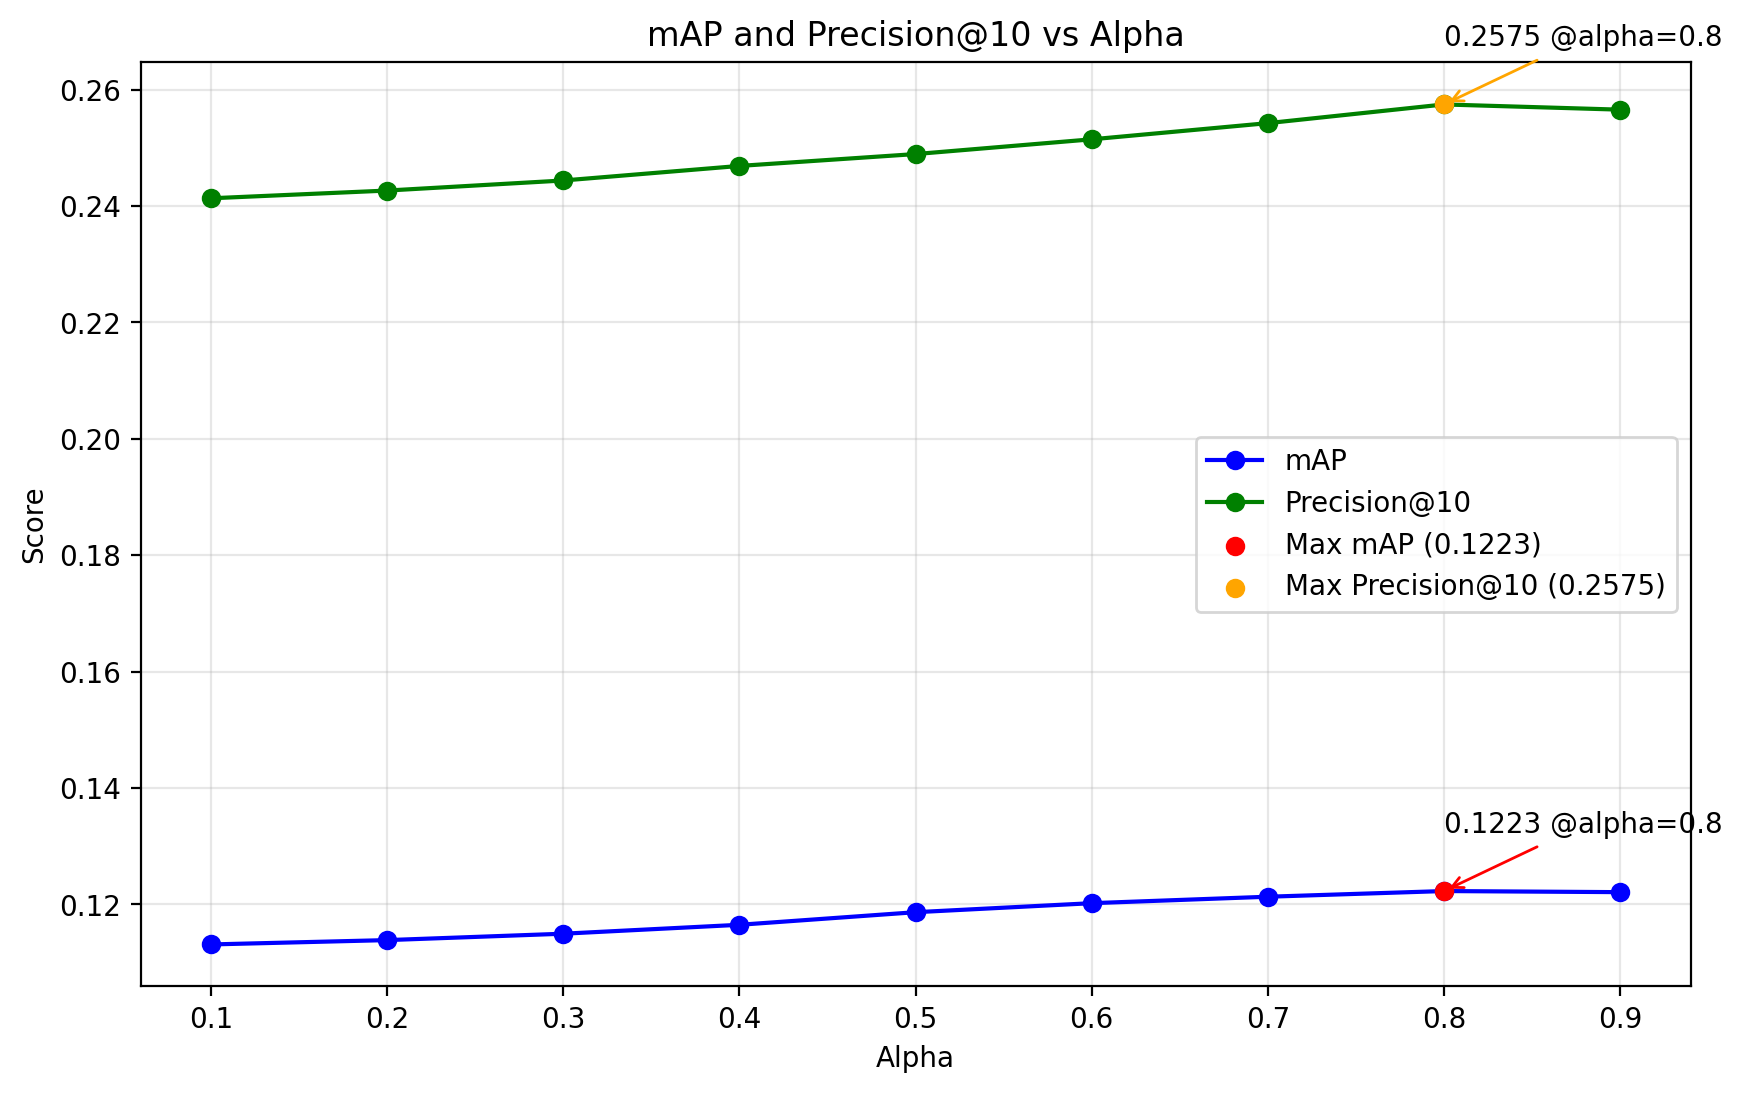
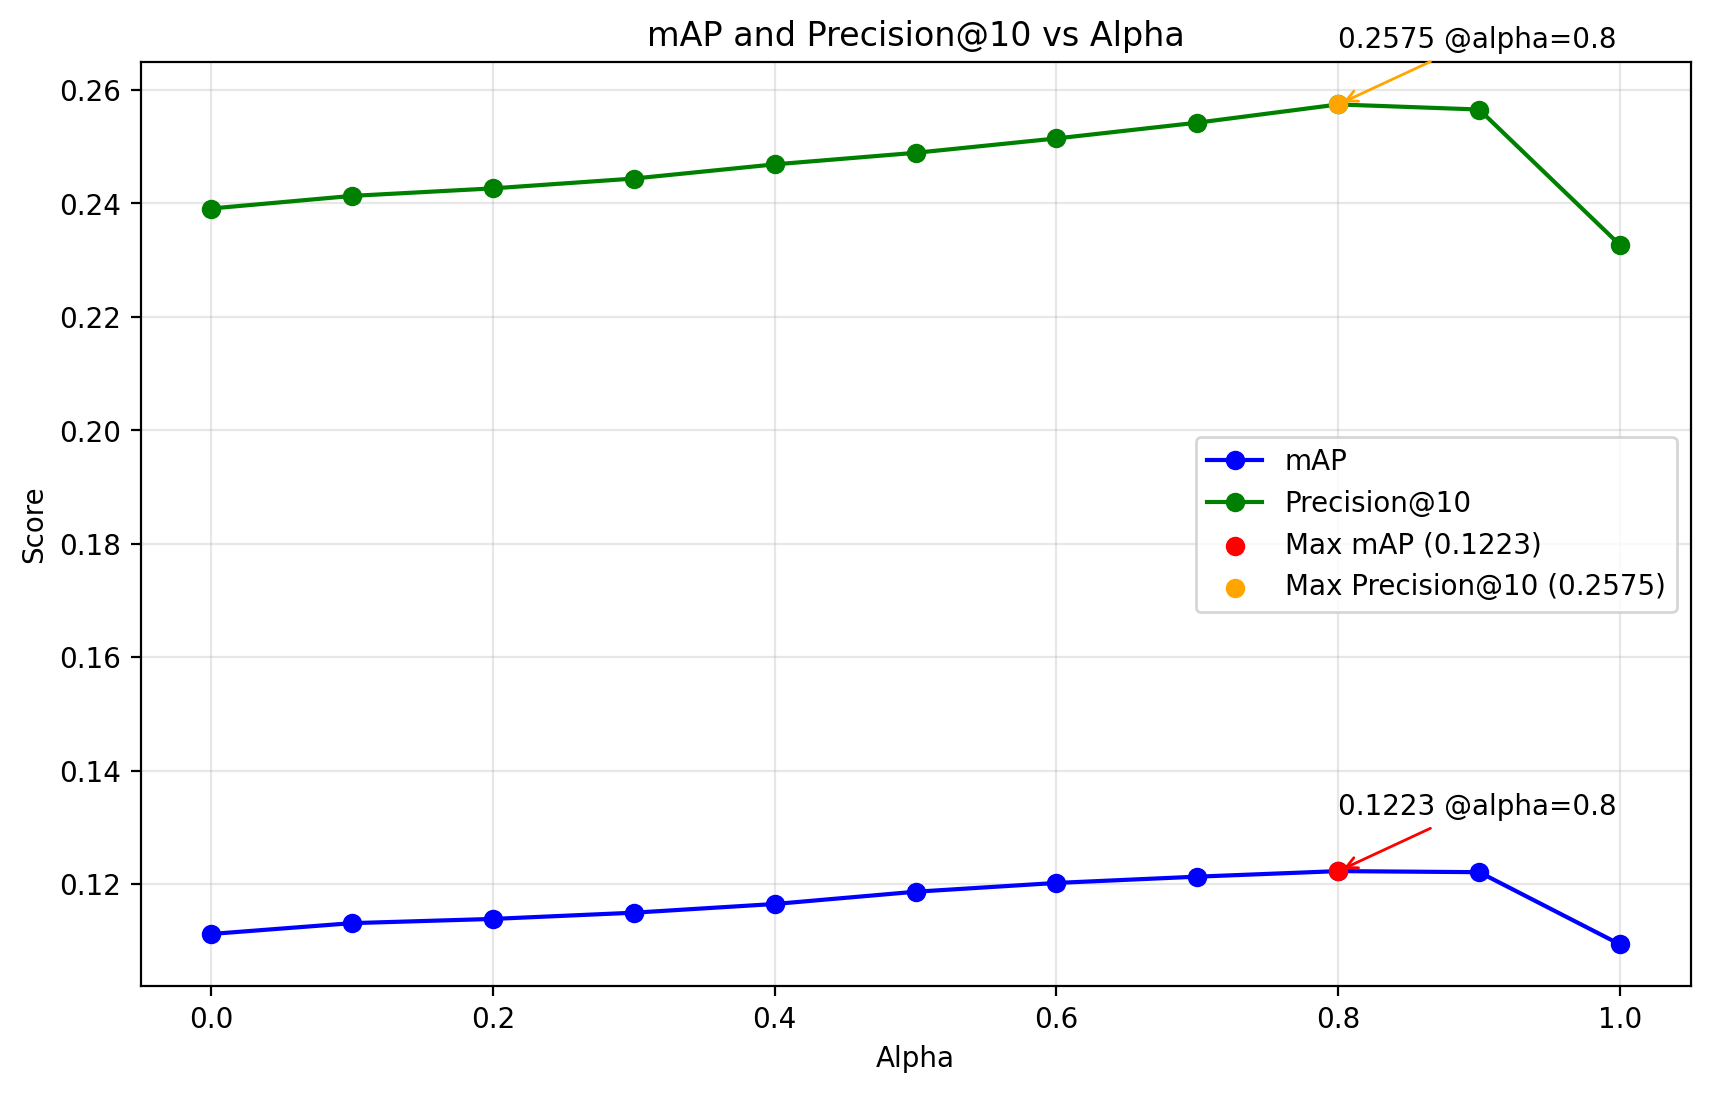
update alpha chart

diff --git a/src/evaluator.py b/src/evaluator.py
@@ -70,30 +70,30 @@ def main():
     total_docs = len(corpus)
 
     # Check for environment variable N_QUERIES from batch script
-    n_queries_env = ENV["N_QUERIES"]
-    if n_queries_env:
-        try:
-            n_queries = int(n_queries_env)
-            n_queries = min(n_queries, len(df['query_id'].unique()))  # Don't exceed available queries
-            print(f"Using {n_queries} queries for evaluation (from environment variable)")
-        except ValueError:
-            print(f"Invalid N_QUERIES value: {n_queries_env}. Using default.")
-            n_queries = len(df['query_id'].unique())
-    else:
-        n_queries = len(df['query_id'].unique())
+    # n_queries_env = ENV["N_QUERIES"]
+    # if n_queries_env:
+    #     try:
+    #         n_queries = int(n_queries_env)
+    #         n_queries = min(n_queries, len(df['query_id'].unique()))  # Don't exceed available queries
+    #         print(f"Using {n_queries} queries for evaluation (from environment variable)")
+    #     except ValueError:
+    #         print(f"Invalid N_QUERIES value: {n_queries_env}. Using default.")
+    #         n_queries = len(df['query_id'].unique())
+    # else:
+    #     n_queries = len(df['query_id'].unique())
 
-    scores = evaluate(df, inverted_index, total_docs, queries, n_queries, range_k=range(1, 20))
-    print(f"Evaluation completed with {n_queries} queries.")
-    visualize_evaluate(scores, n_queries, save_path='results/images/optimized_evaluation_1.png')
+    # scores = evaluate(df, inverted_index, total_docs, queries, n_queries, range_k=range(1, 20))
+    # print(f"Evaluation completed with {n_queries} queries.")
+    # visualize_evaluate(scores, n_queries, save_path='results/images/optimized_evaluation_1.png')
 
-    # n_queries = len(queries)  # Số lượng truy vấn để đánh giá
-    # alphas = [0.1, 0.2, 0.3, 0.4, 0.5, 0.6, 0.7, 0.8, 0.9]  # Các giá trị alpha cần thử nghiệm
+    n_queries = len(queries)  # Số lượng truy vấn để đánh giá
+    alphas = [0.0, 0.1, 0.2, 0.3, 0.4, 0.5, 0.6, 0.7, 0.8, 0.9, 1.0]  # Các giá trị alpha cần thử nghiệm
 
-    # # Tìm alpha tốt nhất
-    # best_alpha, best_alpha_precision, alpha_scores = find_best_alpha(df, inverted_index, total_docs, queries, n_queries, alphas)
+    # Tìm alpha tốt nhất
+    best_alpha, best_alpha_precision, alpha_scores = find_best_alpha(df, inverted_index, total_docs, queries, n_queries, alphas)
 
-    # # Trực quan hóa kết quả
-    # visualize_alpha_scores(alpha_scores, save_path="results/images/alpha_scores.png")
+    # Trực quan hóa kết quả
+    visualize_alpha_scores(alpha_scores, save_path="results/images/alpha_scores.png")
 
 if __name__ == "__main__":
     main()
